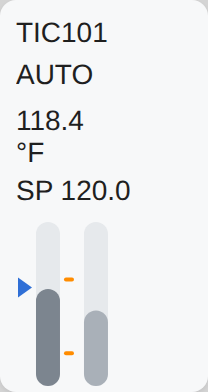
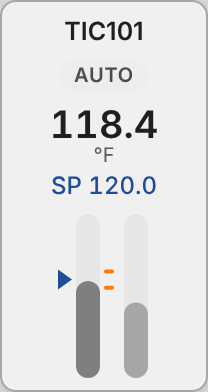
Loop cards: mode chip matches option B (right-aligned, blue CAS fill)
The card root column had no alignItems, so Perspective's default
flex-start shrank the header and OUT rows to their content width and
justify space-between did nothing: the MAN/AUTO/CAS chip sat against
the tag instead of at the right edge, and the OUT row ran together.
Root now stretches its children (B1-B4). CAS chip fill is the
mockup's light blue #DCE6F7 instead of gray #E6E6E6.

Generator updated to match; build.py regenerates identical views.
Loop preview PNGs re-rendered (the old ones predated the views).

Claude-Session: https://claude.ai/code/session_01TX3d47kQpcenHPBKHJvmBr

diff --git a/generator/pid_loops/generate_loops.py b/generator/pid_loops/generate_loops.py
@@ -14,7 +14,7 @@ VIEWS = os.path.join(PROJ, "com.inductiveautomation.perspective", "views")
 # ---------------------------------------------------------------- palette (ISA-101, matches the mockup)
 C = dict(card="#F0F0F0", line="#A6A6A6", line2="#7F7F7F", txt="#1F1F1F", muted="#5A5A5A", sp="#1F4E99",   # EFC_Styles palette
          bar="#7F7F7F", bar2="#A6A6A6", track="#E6E6E6", band="#CFCFCF", chip="#EDEDED", chipTxt="#4D4D4D",
-         dark="#3A3A3A", casBg="#E6E6E6", casTxt="#1F4E99", alH="#FF7A00", warnBg="#FFFFFF", warnTxt="#8F4500",
+         dark="#3A3A3A", casBg="#DCE6F7", casTxt="#1F4E99", alH="#FF7A00", warnBg="#FFFFFF", warnTxt="#8F4500",
          white="#FFFFFF", lockBg="#EDEDED", lockTxt="#4D4D4D")
 FONT = "Inter, 'Segoe UI', Roboto, Arial, sans-serif"
 NUM = "tabular-nums"
@@ -139,7 +139,7 @@ efc.ui.openDynamic(self)
 '''   # click opens the dw_Loop dynamic window (decision 15: LoopConfig popup retired)
 
 
-def card_root(children, pad, extra_style=None, direction="column", align=None):
+def card_root(children, pad, extra_style=None, direction="column", align="stretch"):
     st = {"backgroundColor": C["card"], "borderRadius": v(8), "boxShadow": "0 1px 2px rgba(20,30,40,0.08)",
           "padding": pad, "cursor": "pointer", "fontFamily": FONT, "overflow": "hidden"}
     st.update(extra_style or {})

diff --git a/CHANGELOG.md b/CHANGELOG.md
@@ -3,6 +3,7 @@
 Newest first. Versions match `VERSION.json` and the git tags (`v5.1`, `v6.0`, ...).
 
 - **Unreleased:**
+  - **Fix (loop cards B1–B4):** the MAN / AUTO / CAS chip now matches the option B mockup: right-aligned in the header and a light blue fill for CAS (`#DCE6F7`, was gray). Root cause: the card root column had no `alignItems`, so Perspective's default `flex-start` shrank the header and OUT rows to their content and `space-between` had no effect (it also fixes the OUT row, which ran together as "OUT46.0"). Loop preview PNGs re-rendered.
   - **Library build (steward/finish-library):** every template binds an EFCLib v1 T_ type (T_DValve, T_CValve, T_Motor, T_VFD, T_Heater, T_AI, T_KPI, T_PID, T_Station; I/O on the native x80 DDTs). Click on a symbol opens its dynamic window; double-tap commands T_DValve / T_Motor in touch mode.
   - **Dynamic windows:** new `generator/docks/` part: Docks/ValveDiscrete, ValveAnalog, Rotating, VFD, Heater, HeatTransfer, ProcessValue, Loop, IOCard (400 x 860), parts IntlkList / BypassConfirm / Trend, the screen region `Docks/Region`, and the `efc.ui` project script library. Role-gated controls (Operator, Maintenance+, Supervisor+ bypass with reason + audit, Engineer+ limits/config/tuning). Station sidebar moved to `Docks/Station`.
   - **New template** `Templates/Rotating/VFD`. **Folded in** EFC_AnalogIndicators as `Templates/AnalogIndicator` (generated). **Retired** the LoopConfig popup (dw_Loop replaces it).
